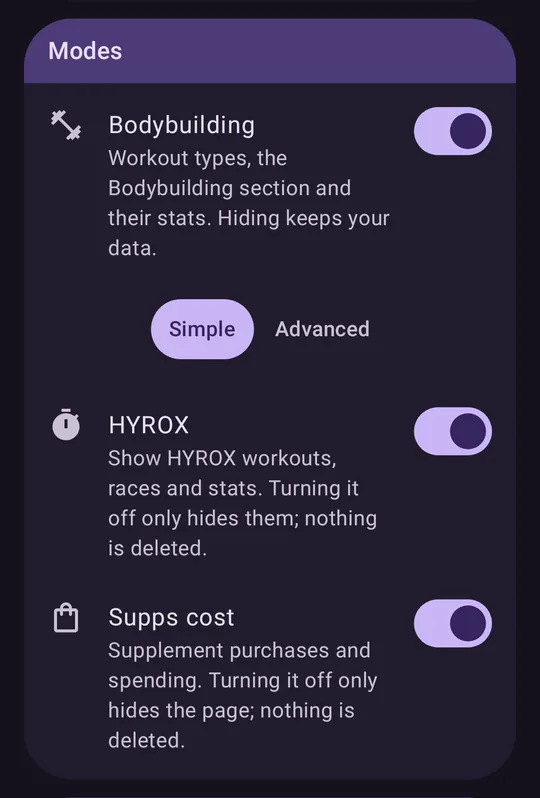
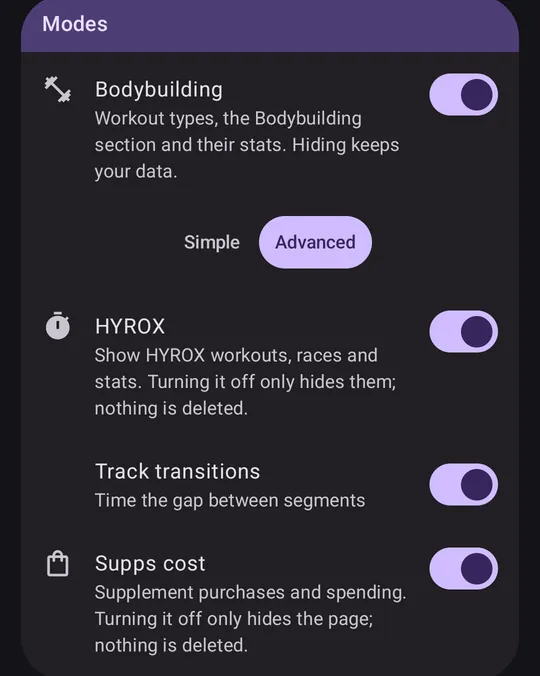
Help: full audit for 2.8.6 (first launch, Log times and Review, import name rules, refreshed screenshots)

diff --git a/help/index.html b/help/index.html
@@ -32,6 +32,13 @@
 
   <p>Liftloq keeps your workout plan on your device. Mark days on the calendar, manage workout types, plan and time HYROX workouts, and optionally track supplement spending — without signing in.</p>
 
+  <h2>First launch</h2>
+  <ol class="steps">
+    <li>On a fresh install, Liftloq opens once with a welcome guide titled <strong>Liftloq</strong> and the version. Its sections: <strong>Welcome to Liftloq</strong>, <strong>Bodybuilding</strong>, <strong>HYROX</strong>, <strong>Navigation</strong>, <strong>Widgets</strong>, <strong>Export / import</strong> and <strong>Customize</strong>.</li>
+    <li><strong>How to use</strong> opens this page. <strong>Got it</strong> (or back) closes the guide. Tapping a row in <strong>Customize</strong> (<strong>Turn off in Settings</strong>, <strong>Bodybuilding modes</strong>) closes it and opens Settings.</li>
+    <li>Once closed, the guide does not open again by itself. An app update does not bring it back, and it does not appear when you update from an earlier version.</li>
+  </ol>
+
   <h2>1. Mark a workout on the calendar</h2>
   <ol class="steps">
     <li>Open <strong>Calendar</strong> (home).</li>
@@ -69,7 +76,7 @@
   <h2>2. Add and remove Bodybuilding types</h2>
   <ol class="steps">
     <li>Open the menu → <strong>Bodybuilding</strong>. Or on a day sheet, tap <strong>Manage types</strong>.</li>
-    <li>To add: tap <strong>+</strong>, enter a name, pick a color, then tap <strong>Save</strong>.</li>
+    <li>To add: tap <strong>+</strong>, enter a name, pick a color, then tap <strong>Save</strong>. A name has 1–24 characters and must differ from the other types (capital letters don’t count): otherwise Save shows <strong>A type with this name already exists</strong>. You can have up to 20 types.</li>
     <li>To remove: tap the trash icon on a type, then confirm <strong>Delete</strong>.</li>
   </ol>
 
@@ -101,8 +108,8 @@
   </ol>
 
   <figure>
-    <img src="images/help-bb-modes.webp" alt="Settings Modes with the Simple and Advanced switch under Bodybuilding" loading="lazy" width="540" height="798" />
-    <figcaption>Settings → Modes: <strong>Simple</strong> | <strong>Advanced</strong> under Bodybuilding.</figcaption>
+    <img src="images/help-bb-modes.webp" alt="Settings Modes: Bodybuilding with the Simple and Advanced switch, HYROX with Track transitions under it, and Supps cost" loading="lazy" width="540" height="676" />
+    <figcaption>Settings → Modes: <strong>Simple</strong> | <strong>Advanced</strong> under Bodybuilding, <strong>Track transitions</strong> under HYROX, and <strong>Supps cost</strong>.</figcaption>
   </figure>
   <figure>
     <img src="images/help-bb-type-exercises.webp" alt="Edit type sheet with Exercises · 3; Bench press is open with only a Sets field" loading="lazy" width="540" height="1493" />
@@ -167,9 +174,9 @@
   <ol class="steps">
     <li><strong>Builder:</strong> menu → <strong>HYROX</strong> → <strong>+</strong>. Name the workout, pick a colour and division, then tap <strong>+ Segment</strong> to pick a run or station from the list (sorted into Runs and Stations). While the list is still empty, <strong>+ Full race</strong> next to it adds the 16 official segments. A new segment opens ready to edit (distance or reps, weight); tap any card to open it, use <strong>⋮</strong> → <strong>Move up</strong> / <strong>Move down</strong> to reorder, and the red trash to delete it (you confirm first). The list scrolls under the floating <strong>Cancel</strong> and <strong>Save</strong> buttons (bottom right). If the name is empty, Save scrolls back to the <strong>Name</strong> field and shows <strong>Name required</strong>. When editing an existing workout, <strong>Delete</strong> is next to the title.</li>
     <li><strong>Delete:</strong> on the HYROX list, tap the red trash on a workout (or Delete inside the editor). Confirm — sessions are removed and the workout is cleared from every calendar day. Official race is not re-seeded after you delete it.</li>
-    <li><strong>Plan it:</strong> on a day sheet, open <strong>HYROX workouts</strong> and pick one or more, then <strong>Save</strong>.</li>
+    <li><strong>Plan it:</strong> on a day sheet, open <strong>HYROX workouts</strong> and pick one or more, then <strong>Save</strong>. When you tick a workout, two buttons appear below the list for it: <strong>Start Race mode</strong> (live timer) and <strong>Log times</strong> (type in the times of a race you have already done, see <a href="#hyrox-log-times">Log times and Review</a>).</li>
     <li><strong>Start HYROX:</strong> on a day with a planned HYROX workout, a <strong>Start HYROX</strong> button appears above the add button. With several planned, it opens a menu to choose one.</li>
-    <li><strong>Race mode:</strong> a wavy progress bar and the big total sit on top, then a <strong>Current</strong> card (segment and its time), a <strong>Next</strong> card (with your best split when known) and every finished split, newest first, vs your best (scroll to see them all). Tap <strong>Next split</strong> at the end of each segment. <strong>Pause</strong> freezes the clock (paused time is not counted; the wave goes flat), <strong>Resume</strong> continues, the undo button removes the last split. All three sit in one connected row that floats at the bottom of the screen; the list scrolls underneath it, and the last split scrolls clear above it. <strong>Finish</strong> (top bar) asks for confirmation. Then review and <strong>Save</strong>; results show with an <strong>OK</strong> button back to the calendar. To time the gap between segments, turn on <strong>Track transitions</strong> (see <a href="#hyrox-transitions">Track transitions</a>).</li>
+    <li><strong>Race mode:</strong> a wavy progress bar and the big total sit on top, then a <strong>Current</strong> card (segment and its time), a <strong>Next</strong> card (with your best split when known) and every finished split, newest first, vs your best (scroll to see them all). Tap <strong>Next split</strong> at the end of each segment. <strong>Pause</strong> freezes the clock (paused time is not counted; the wave goes flat), <strong>Resume</strong> continues, the undo button removes the last split. All three sit in one connected row that floats at the bottom of the screen; the list scrolls underneath it, and the last split scrolls clear above it. <strong>Finish</strong> (top bar) asks for confirmation. Then check the times in <strong>Review</strong> (see <a href="#hyrox-log-times">Log times and Review</a>) and tap <strong>Save</strong>; results show with an <strong>OK</strong> button back to the calendar. To time the gap between segments, turn on <strong>Track transitions</strong> (see <a href="#hyrox-transitions">Track transitions</a>).</li>
     <li><strong>Stats:</strong> Stats → <strong>HYROX</strong> shows History (tap a session for its results), best splits and station decay. History is newest first; sessions on the same day stay in the order you did them, also after an export/import.</li>
   </ol>
 
@@ -214,6 +221,29 @@
     <img src="images/help-stats-hyrox.webp" alt="Stats HYROX tab" loading="lazy" width="540" height="1468" />
     <figcaption>Stats → HYROX: History on top, then Templates. Best split per segment and Station decay follow below.</figcaption>
   </figure>
+  <h3 id="hyrox-log-times">Log times and Review</h3>
+  <ol class="steps">
+    <li><strong>Log times</strong> (on the day sheet, after ticking a HYROX workout) goes through the workout one segment at a time. The top shows <strong>Step X of Y</strong> and a progress line. Step 1 also has the <strong>Date</strong> and <strong>Division · prefills station weights</strong> (Open or Pro, Men or Women).</li>
+    <li>Each step shows the segment (for example <strong>Run 1</strong> or <strong>SkiErg</strong>) with its distance or reps. Type the time in the <strong>Time</strong> field as digits, minutes first (<strong>mm:ss</strong>): 125 becomes 1:25 and 4531 becomes 45:31. Seconds above 59 are not accepted and the field is marked as an error. Stations with a weight also have a <strong>Weight</strong> field in kg.</li>
+    <li><strong>Next</strong> keeps the time of this step and opens the next one. <strong>Back</strong> keeps it too and opens the previous step. On the last step the button says <strong>Review</strong>. In a new log, Next stays off until the step has a valid time.</li>
+    <li>A step you don’t change keeps its time exactly as it was, however quickly you tap Next. If you clear the field on a step that already has a time, that time stays. Only a time you type replaces the old one, in whole seconds.</li>
+    <li><strong>Review</strong> shows the date, division and total, then every segment with its time. Tap a segment (or its pencil) to reopen that step; changing a segment time never changes the transition times. With transitions, a <strong>Transition total</strong> card and <strong>Transition 0:XX</strong> under each segment are shown (see <a href="#hyrox-transitions">Track transitions</a>). When runs sit between stations, a <strong>Worst</strong> station card and <strong>Fresh 1 km baseline (optional)</strong> (default: Run 1) appear as well.</li>
+    <li>In Review, <strong>Back</strong> reopens the last step and <strong>Save</strong> stores the session and shows the results. ✕, or swiping the Log times sheet down, closes without saving.</li>
+    <li>Race mode ends in the same Review after <strong>Finish</strong>, so you can correct a split there before saving.</li>
+    <li>A saved session is listed on its day sheet under <strong>HYROX workouts</strong>, with its splits, <strong>Edit times</strong> and <strong>Results</strong> (<strong>Station decay</strong> when it has runs between stations). <strong>Edit times</strong> opens the same steps with the saved times, and Save updates that session.</li>
+  </ol>
+  <figure>
+    <img src="images/help-hyrox-log-times.webp" alt="Log times sheet, Step 1 of 16: Date Thu, 19 Nov 2026, Division Open and Men, Run 1 1000 m with Time 1:20, Back and Next" loading="lazy" width="540" height="668" />
+    <figcaption>Log times, step 1: Date and Division, then the first segment’s <strong>Time</strong> in mm:ss.</figcaption>
+  </figure>
+  <figure>
+    <img src="images/help-hyrox-log-last.webp" alt="Log times sheet, Step 16 of 16: Wall balls 100 reps 6 kg with Time 4:31, Weight 6 kg, Back and Review" loading="lazy" width="540" height="548" />
+    <figcaption>The last step: a station with <strong>Weight</strong>, and <strong>Review</strong> instead of Next.</figcaption>
+  </figure>
+  <figure>
+    <img src="images/help-hyrox-review.webp" alt="Review: Sat, 10 Oct 2026, Open, Men, 1:10:08; Transition total 3:41 for 15 transitions; Worst: Sandbag lunges +40s; Fresh 1 km baseline field; segments with times and Transition times; Back and Save" loading="lazy" width="540" height="1085" />
+    <figcaption>Review: total, <strong>Transition total</strong>, the worst station and every segment with its <strong>Transition</strong> time. Tap a segment to edit it.</figcaption>
+  </figure>
   <h3 id="hyrox-transitions">Track transitions</h3>
   <ol class="steps">
     <li>Settings → <strong>Modes</strong> shows <strong>Track transitions</strong> under <strong>HYROX</strong>, only while HYROX is on. It is off by default. Turn it on and tap <strong>Save</strong>.</li>
@@ -257,7 +287,7 @@
     <figcaption><strong>Exercise</strong>: only exercises you have logged are listed.</figcaption>
   </figure>
   <figure>
-    <img src="images/help-progress-volume.webp" alt="Progress with Volume selected: reps × kg per day" loading="lazy" width="540" height="1019" />
+    <img src="images/help-progress-volume.webp" alt="Progress for Bench press with Volume selected over All: reps × kg per day, with Best, Latest and Change" loading="lazy" width="540" height="868" />
     <figcaption><strong>Volume</strong>: reps × kg per day.</figcaption>
   </figure>
   <figure>
@@ -276,15 +306,15 @@
   <ol class="steps">
     <li>Menu → <strong>Settings</strong>. Sections: <strong>General</strong> (language, currency, theme, one-handed mode, motivation quote), <strong>Modes</strong>, <strong>Card order</strong>, <strong>Workout plan</strong> and <strong>About</strong>.</li>
     <li><strong>Theme:</strong> Settings → General → <strong>Theme</strong> lets you choose <strong>Purple</strong> (default), <strong>Lavender</strong>, <strong>Rose</strong> or <strong>Red</strong>. Pick a theme and tap <strong>OK</strong>; the row shows your choice as unsaved. Tap <strong>Save</strong> to apply it: the app reloads in the new theme and both home-screen widgets follow. Leaving Settings without Save keeps the current theme. Liftloq is dark-only: every theme is dark, even when the phone is set to light mode.</li>
-    <li><strong>Modes:</strong> turn <strong>Bodybuilding</strong> or <strong>HYROX</strong> off to hide everything for that mode (calendar entries, legend, stats, menu pages). Nothing is deleted; turning it back on restores it. One of the two must stay on. <strong>Supps cost</strong> has its own switch, separate from that rule: off hides the Supps page from the menu and swipe cycle (purchases are kept). While <strong>HYROX</strong> is on, a <strong>Track transitions</strong> switch appears under it (off by default). Turn it on and tap <strong>Save</strong> to time the gap between segments in a race started afterwards (see <a href="#hyrox-transitions">Track transitions</a>).</li>
+    <li><strong>Modes:</strong> turn <strong>Bodybuilding</strong> or <strong>HYROX</strong> off to hide everything for that mode (calendar entries, legend, stats, menu pages). Nothing is deleted; turning it back on restores it. One of the two must stay on. Turning HYROX off during a race first asks <strong>Race in progress</strong>: <strong>Turn off</strong> hides the race and keeps it until HYROX is on again. <strong>Supps cost</strong> has its own switch, separate from that rule: off hides the Supps page from the menu and swipe cycle (purchases are kept). While <strong>HYROX</strong> is on, a <strong>Track transitions</strong> switch appears under it (off by default). Turn it on and tap <strong>Save</strong> to time the gap between segments in a race started afterwards (see <a href="#hyrox-transitions">Track transitions</a>).</li>
     <li><strong>Card order:</strong> use the ↑ / ↓ buttons to set the order of the cards in the menu and in the swipe cycle. Changes apply right away. Cards switched off in Modes are dimmed and marked <strong>Hidden</strong>; you can still move them, and they are skipped until you turn them back on. Settings is always last in the menu and is never part of the swipe cycle.</li>
     <li>A language, theme, one-handed mode or Track transitions change is applied when you tap <strong>Save</strong>. The Save button expands after any setting change.</li>
-    <li><strong>About:</strong> Settings → About → <strong>About Liftloq</strong> shows the app version (name and build number). <strong>Help &amp; feedback</strong> opens this page (<strong>How to use</strong>) or an email to the developer (<strong>Feedback</strong>); <strong>Legal</strong> has the <strong>Privacy policy</strong>.</li>
+    <li><strong>About:</strong> Settings → About → <strong>About Liftloq</strong> shows the app version (name and build number). <strong>Help &amp; feedback</strong> has <strong>How to use</strong> (this page) and <strong>Feedback</strong>, which starts an email to p4we1.dev@gmail.com; <strong>Legal</strong> has the <strong>Privacy policy</strong>.</li>
   </ol>
 
   <figure>
-    <img src="images/help-settings.webp" alt="Settings with General, including the Theme row, and the Modes section with three switches" loading="lazy" width="540" height="1438" />
-    <figcaption>Settings → General (with Theme) and Modes: Bodybuilding, HYROX and Supps cost.</figcaption>
+    <img src="images/help-settings.webp" alt="Settings General section: Language, Currency, Theme, One-handed mode and Show motivation quote" loading="lazy" width="540" height="626" />
+    <figcaption>Settings → General: Language, Currency, Theme, One-handed mode and Show motivation quote. Modes is shown in section 3.</figcaption>
   </figure>
   <figure>
     <img src="images/help-theme.webp" alt="Theme dialog with Purple, Lavender, Rose and Red options, Cancel and OK" loading="lazy" width="540" height="546" />
@@ -324,14 +354,14 @@
     <figcaption>Workout plan (export/import) and About.</figcaption>
   </figure>
   <figure>
-    <img src="images/help-about.webp" alt="About Liftloq page with the Liftloq logo, version, Help and feedback and Legal sections" loading="lazy" width="540" height="1093" />
+    <img src="images/help-about.webp" alt="About page with the Liftloq logo, version, Help and feedback (How to use, Feedback) and Legal (Privacy policy)" loading="lazy" width="540" height="928" />
     <figcaption>About Liftloq: version, Help &amp; feedback, and Legal.</figcaption>
   </figure>
   <h2>8. Export / import</h2>
   <ol class="steps">
     <li>Settings → <strong>Workout plan</strong> → <strong>Export workout plan</strong> saves a JSON backup (types, days, notes, supplements, HYROX data, and the Advanced bodybuilding data: the exercises on your workout types, the exercise log and your custom exercises). It includes the settings you can change: language, currency, colour theme, <strong>One-handed mode</strong>, <strong>Show motivation quote</strong>, <strong>Track transitions</strong>, your card order and the Modes switches. <strong>Auto export</strong> writes this same file.</li>
     <li><strong>Import workout plan</strong> replaces your data from such a file, after a confirmation, including those settings. Days with more than 3 entries keep the first 3. Older backups still import. Files from older versions have no card settings, so the default order is used and all cards are turned on. They also have no Advanced bodybuilding data: Bodybuilding is set to Simple and your exercise log on this phone is kept. Files from 2.3.0 have no exercises on workout types, so the ones on this phone are kept. If a file has no language, colour theme, One-handed mode or motivation quote, those stay as they are on this phone. If a file has no Track transitions key, it imports as off.</li>
-    <li><strong>Checks before import:</strong> a file larger than 10 MB is refused with <strong>This backup is larger than 10 MB</strong>. The file is then read and checked in full before anything changes: counts (days, purchases, HYROX sessions, bodybuilding logs), names and values such as prices, times, distances and weights must be within sensible limits. Very long names are shortened. A damaged or out-of-range file shows <strong>Invalid workout plan file</strong>, and your data stays as it was.</li>
+    <li><strong>Checks before import:</strong> a file larger than 10 MB is refused with <strong>This backup is larger than 10 MB</strong>. The file is then read and checked in full before anything changes: counts (days, purchases, HYROX sessions, bodybuilding logs), names and values such as prices, times, distances and weights must be within sensible limits. Workout type names are trimmed of spaces at the start and end, and a name longer than 24 characters is cut to its first 24. Two types can then end up with the same name: both are kept, because days are linked to the type, not to its name. To edit one of them, give it a different name first. A type with a blank name makes the file invalid. More than 20 types is refused with <strong>Maximum 20 types</strong>. Other very long names are shortened too. A damaged or out-of-range file shows <strong>Invalid workout plan file</strong>, and your data stays as it was.</li>
     <li><strong>All or nothing:</strong> an import either completes for everything (calendar, HYROX, bodybuilding, purchases and settings) or changes nothing. If any part fails, Liftloq puts back what was on this phone before the import. Auto export waits until the import has finished, so the backup file never holds a half-imported state.</li>
   </ol>
 
